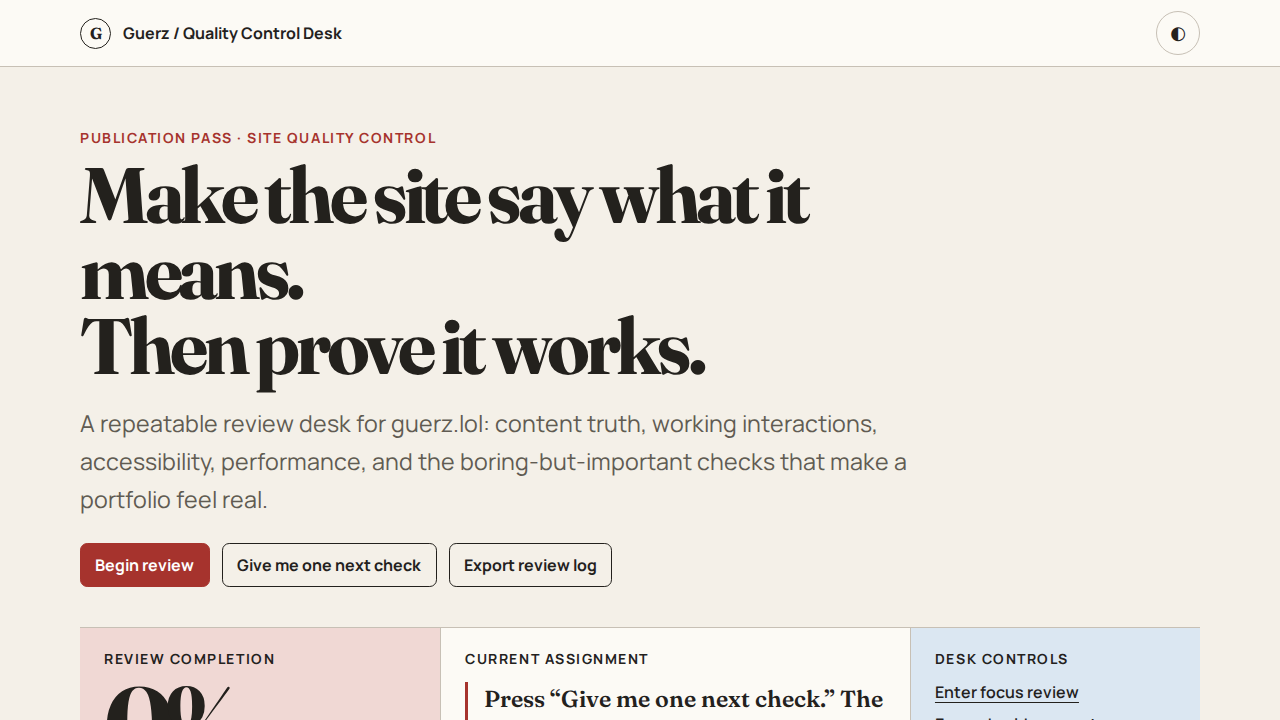
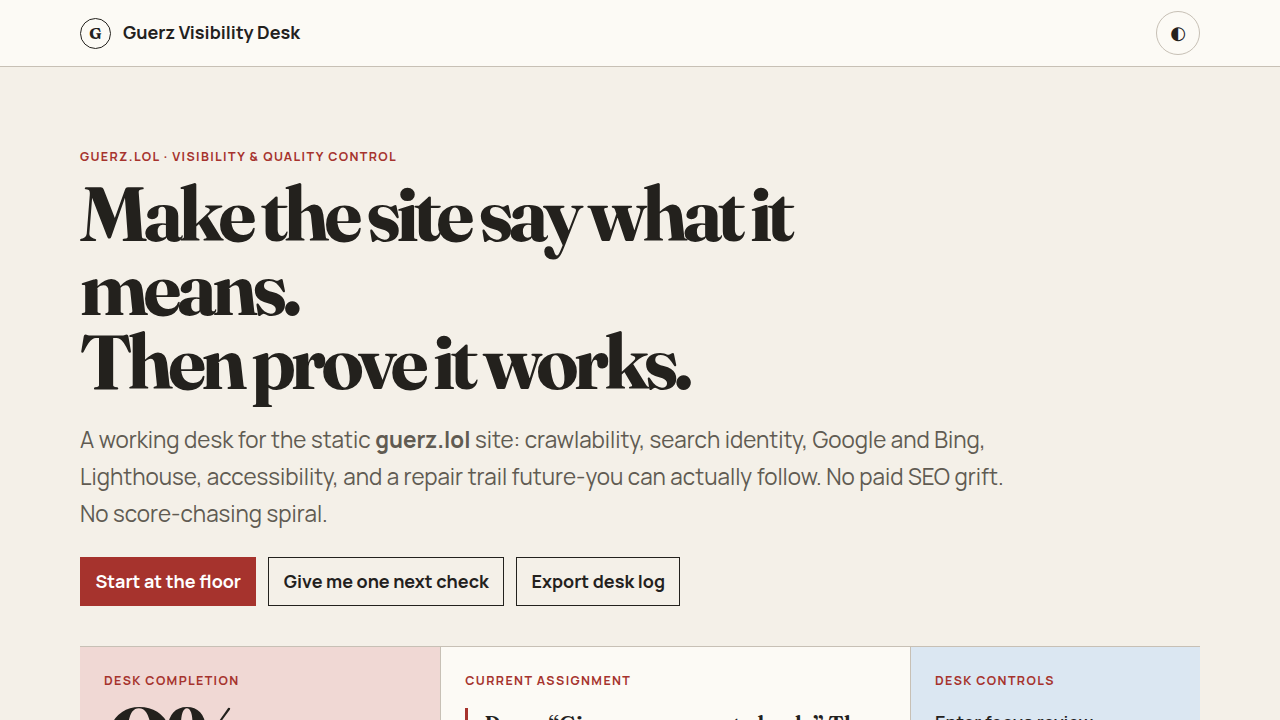
toolshed: AI credit blurb + cards match revised QC desk and WP 101

diff --git a/toolshed.html b/toolshed.html
@@ -109,6 +109,19 @@ a{color:inherit}
   <h1 class="rm-title">the toolshed</h1>
   <p class="rm-sub">live builds, not exercises — open one, download it, or go read how it works.</p>
 
+  <!-- AI CREDIT BLURB: tells every visitor up front how the Toolshed tools were made -->
+  <section class="rm-credit" aria-labelledby="rm-credit-title"> <!-- labeled region so screen readers announce it by its heading -->
+    <h2 class="rm-credit-title" id="rm-credit-title">How these tools were made</h2> <!-- section heading; its id is what aria-labelledby points to -->
+    <p>Every tool in the Toolshed was made with AI. I came up with the idea for each one, decided what it needed to do, and tested it until it worked the way I wanted. The code itself was written mostly by two AI assistants: Plexi (Perplexity) and Bonnie (Claude).</p> <!-- the plain statement: AI-built, my ideas -->
+    <ul class="rm-credit-list"> <!-- who did what, one role per line -->
+      <li><strong>Me (Guerz):</strong> the idea, the requirements, the testing, and the final call on what ships.</li> <!-- my part -->
+      <li><strong>Plexi (Perplexity):</strong> research, first drafts, and most of the original builds.</li> <!-- Plexi's part -->
+      <li><strong>Bonnie (Claude):</strong> fixes, revisions, quality checks, and fitting each tool into this site.</li> <!-- Claude's part -->
+    </ul> <!-- end of the role list -->
+    <p>That makes the Toolshed different from the rest of guerz.lol. Everything in the FCC Build Archive and the Sandbox is coded by me, by hand, as part of my learning. The Toolshed holds tools I use for my own work, built by directing AI instead of writing every line myself.</p> <!-- draws the line between hand-coded and AI-built -->
+    <p>Each tool also has a linear note on its own page with the details.</p> <!-- points to the per-tool notes -->
+  </section> <!-- end of the AI credit blurb -->
+
   <div class="rm-grid">
 
     <!-- ============================================================
@@ -184,18 +197,18 @@ a{color:inherit}
 
     <article class="rm-card">
       <div class="rm-thumb-wrap">
-        <a class="rm-thumb-link" href="toolshed/quality-control-desk/index.html" aria-label="Open Quality Control Desk — live preview">
-          <img src="toolshed/roadmap-thumbs/qc-desk.png" alt="Screenshot preview of the Quality Control Desk" loading="lazy"
+        <a class="rm-thumb-link" href="toolshed/quality-control-desk/index.html" aria-label="Open Visibility &amp; Quality Control Desk — live preview">
+          <img src="toolshed/roadmap-thumbs/qc-desk.png" alt="Screenshot preview of the Visibility &amp; Quality Control Desk" loading="lazy"
                onerror="this.style.display='none';this.nextElementSibling.style.display='flex'">
           <div class="rm-thumb-placeholder"><span>screenshot pending</span></div>
         </a>
       </div>
       <div class="rm-card-body">
-        <h3 class="rm-card-name">Quality Control Desk</h3>
-        <p class="rm-card-desc">Pre-publish review checklist for guerz.lol — content truth, functionality, accessibility &amp; resilience, and a ship gate. 20 checks across 4 review lanes.</p>
-        <span class="rm-tag">v1 · live</span>
+        <h3 class="rm-card-name">Visibility &amp; Quality Control Desk</h3>
+        <p class="rm-card-desc">Make the site say what it means, then prove it works — crawlability, Google &amp; Bing, titles and link previews, Lighthouse and accessibility, plus a repair trail future-me can follow. 28 checks across 5 lanes.</p>
+        <span class="rm-tag">v2 · live</span>
         <div class="rm-actions">
-          <a class="rm-btn-dl" href="toolshed/quality-control-desk/index.html" download aria-label="Download Quality Control Desk">↓</a>
+          <a class="rm-btn-dl" href="toolshed/quality-control-desk/index.html" download aria-label="Download Visibility &amp; Quality Control Desk">↓</a>
           <a class="rm-btn-code" href="https://github.com/gitguerz/gitguerz.github.io/tree/main/toolshed/quality-control-desk" target="_blank" rel="noopener noreferrer">code</a>
         </div>
         <p class="rm-dl-note">html only — app.js &amp; styles.css live alongside it in the folder</p>
@@ -204,18 +217,18 @@ a{color:inherit}
 
     <article class="rm-card">
       <div class="rm-thumb-wrap">
-        <a class="rm-thumb-link" href="toolshed/wp-workshop/index.html" aria-label="Open WordPress 101 / Side Quest Workshop — live preview">
-          <img src="toolshed/roadmap-thumbs/wp-workshop.png" alt="Screenshot preview of the WordPress 101 Side Quest Workshop" loading="lazy"
+        <a class="rm-thumb-link" href="toolshed/wp-workshop/index.html" aria-label="Open WordPress 101 / The Blog Archive Engine — live preview">
+          <img src="toolshed/roadmap-thumbs/wp-workshop.png" alt="Screenshot preview of WordPress 101: The Blog Archive Engine" loading="lazy"
                onerror="this.style.display='none';this.nextElementSibling.style.display='flex'">
           <div class="rm-thumb-placeholder"><span>screenshot pending</span></div>
         </a>
       </div>
       <div class="rm-card-body">
-        <h3 class="rm-card-name">WordPress 101 / Side Quest Workshop</h3>
-        <p class="rm-card-desc">Beginner WordPress workshop — hosted vs. self-hosted route picker, 4 stations from claiming the keys to publish-day checks, plus an independent battle-test register.</p>
-        <span class="rm-tag">v1 · live</span>
+        <h3 class="rm-card-name">WordPress 101 / The Blog Archive Engine</h3>
+        <p class="rm-card-desc">WordPress road map for blog.guerz.lol — stabilize the house, make old writing findable, build a right rail that earns its space, and publish without sanding off the personality. 31 tasks across 6 stations, plus a battle-test register.</p>
+        <span class="rm-tag">v2 · live</span>
         <div class="rm-actions">
-          <a class="rm-btn-dl" href="toolshed/wp-workshop/index.html" download aria-label="Download WordPress 101 Side Quest Workshop">↓</a>
+          <a class="rm-btn-dl" href="toolshed/wp-workshop/index.html" download aria-label="Download WordPress 101: The Blog Archive Engine">↓</a>
           <a class="rm-btn-code" href="https://github.com/gitguerz/gitguerz.github.io/tree/main/toolshed/wp-workshop" target="_blank" rel="noopener noreferrer">code</a>
         </div>
         <p class="rm-dl-note">html only — app.js &amp; styles.css live alongside it in the folder</p>

diff --git a/styles.css b/styles.css
@@ -688,3 +688,25 @@ h2.card-eyebrow, h3.card-eyebrow, h2.callout-title, h2.card-title, h2.post-title
     scroll-behavior: auto !important;
   }
 }
+
+/* ===== TOOLSHED: AI credit blurb (toolshed.html only — .rm-credit classes exist nowhere else) ===== */
+.rm-credit {                                   /* the whole credit box */
+  max-width: 720px;                            /* keeps lines short enough to read comfortably */
+  margin: 0 0 28px;                            /* no top gap (the subtitle already has one), space before the tool grid */
+  padding: 18px 20px;                          /* breathing room inside the box */
+  background: var(--card, #fdf0e4);            /* same cream as the tool cards (falls back to cream if the variable is missing) */
+  border: 2px solid var(--muted);              /* same purple border as the tool cards */
+  box-shadow: 5px 5px 0 var(--peach);          /* peach drop shadow so it reads as a note, not another tool card (cards use lavender) */
+  font: 16px/1.55 'Eczar', serif;              /* same body font and size as the page subtitle */
+  color: var(--text, #3a2b22);                 /* page text color, so it flips correctly in night mode */
+}
+.rm-credit p { margin: 0 0 10px; }             /* tighter paragraph spacing inside the box */
+.rm-credit p:last-child { margin-bottom: 0; }  /* no extra gap under the final line */
+.rm-credit-title {                             /* the "How these tools were made" heading */
+  margin: 0 0 10px;                            /* small gap under the heading */
+  font: 800 20px/1.1 'Big Shoulders Display', sans-serif; /* same display font as the page title, smaller */
+  text-transform: uppercase;                   /* matches the page title's all-caps look */
+  letter-spacing: .01em;                       /* slight spacing so the caps don't crowd */
+}
+.rm-credit-list { margin: 0 0 10px; padding-left: 1.2em; } /* indent the role list a little */
+.rm-credit-list li { margin: 0 0 4px; }        /* small gap between roles */

diff --git a/README.md b/README.md
@@ -25,8 +25,8 @@ My corner of the world wide web: part web dev portfolio, part brain dump, part p
 |---|---|
 | `toolshed/discogs-seller-operating-system-v2-6.html` | The Turntable Line: Discogs seller operating system |
 | `toolshed/cloudflare-field-plan/` | Cloudflare Field Plan: GitHub Pages → Cloudflare Workers roadmap |
-| `toolshed/quality-control-desk/` | Quality Control Desk: site review checklist |
-| `toolshed/wp-workshop/` | WordPress 101: side quest workshop |
+| `toolshed/quality-control-desk/` | Visibility & Quality Control Desk: search visibility + site review checklist |
+| `toolshed/wp-workshop/` | WordPress 101 / The Blog Archive Engine: road map for blog.guerz.lol |
 | `toolshed/roadmap-thumbs/` | Preview thumbnails for the toolshed cards |
 
 ## Folders
